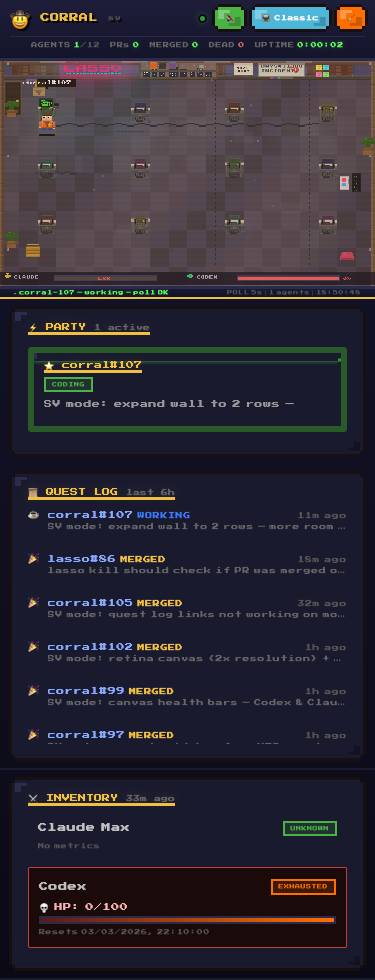
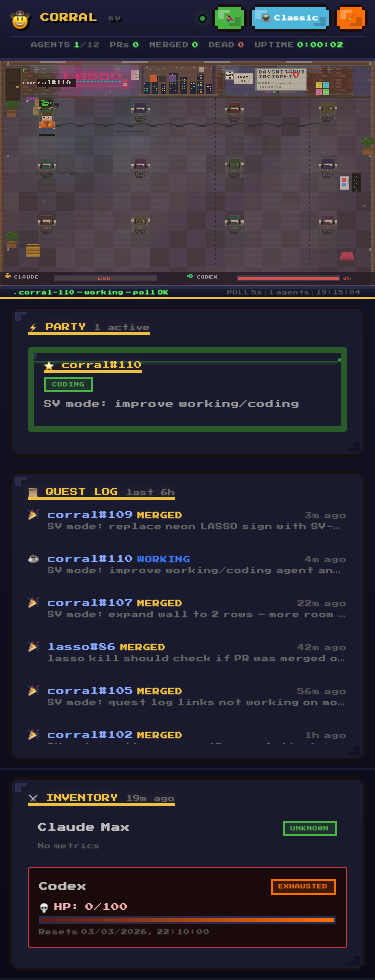
SV mode: improve working/coding agent animations
- Both hands now animate alternately (left on even frames, right on odd) to simulate two-hand typing
- Head bobs forward 1px periodically when coding (focused lean-in posture)
- Eyes glance between different monitor areas while coding
- Monitor shows scrolling code lines moving upward with varying indentation
- Blinking cursor on monitor screen
- Occasional compile flash (brief white flicker)
- RGB keyboard glow cycling slowly under hands
- Thought bubbles (... </> { }) float above coding agents with fade in/out
- Hair and headset follow head bob movement for consistency

diff --git a/sv.html b/sv.html
@@ -2224,52 +2224,57 @@ function drawCharacterSV(d, colorIdx, state, agentType) {
   R(x+6, y+8+oy, 1, 2, hX); R(x+9, y+8+oy, 1, 2, hX);
   if (isCodex) { R(x+10, y+9+oy, 2, 2, '#f0c040'); R(x+10, y+9+oy, 1, 1, '#d4a020'); }
   else { R(x+10, y+9+oy, 1, 1, '#f0c040'); R(x+9, y+10+oy, 3, 1, '#f0c040'); R(x+10, y+11+oy, 1, 1, '#f0c040'); }
-  // --- HEAD ---
-  R(x+4, y+2+oy, 8, 5, ch.skin);
-  R(x+4, y+2+oy, 8, 1, ch.skinH);
-  R(x+4, y+6+oy, 8, 1, ch.skinD);
-  R(x+3, y+3+oy, 1, 2, ch.skin); R(x+3, y+3+oy, 1, 1, ch.skinH);
-  R(x+12, y+3+oy, 1, 2, ch.skinD);
+  // --- HEAD (with lean-in bob for coding) ---
+  const hob = coding ? (Math.floor(frame / 24) % 4 === 1 ? 1 : 0) : 0;
+  const hy = oy + hob;
+  R(x+4, y+2+hy, 8, 5, ch.skin);
+  R(x+4, y+2+hy, 8, 1, ch.skinH);
+  R(x+4, y+6+hy, 8, 1, ch.skinD);
+  R(x+3, y+3+hy, 1, 2, ch.skin); R(x+3, y+3+hy, 1, 1, ch.skinH);
+  R(x+12, y+3+hy, 1, 2, ch.skinD);
   // --- EYES (2px tall) ---
   const blink = frame % 80 < 3;
   if (slumped) {
-    R(x+5, y+4+oy, 2, 1, '#222'); R(x+9, y+4+oy, 2, 1, '#222');
+    R(x+5, y+4+hy, 2, 1, '#222'); R(x+9, y+4+hy, 2, 1, '#222');
   } else if (!blink) {
-    R(x+5, y+3+oy, 2, 2, '#fff'); R(x+9, y+3+oy, 2, 2, '#fff');
-    const px = coding ? 0 : (Math.sin(frame * 0.02) > 0 ? 0 : 1);
-    R(x+5+px, y+3+oy, 1, 2, '#111'); R(x+9+px, y+3+oy, 1, 2, '#111');
-    R(x+5, y+3+oy, 1, 1, '#ddf'); R(x+9, y+3+oy, 1, 1, '#ddf');
-    if (celeb) { R(x+5, y+2+oy, 2, 1, ch.hair); R(x+9, y+2+oy, 2, 1, ch.hair); }
+    R(x+5, y+3+hy, 2, 2, '#fff'); R(x+9, y+3+hy, 2, 2, '#fff');
+    // Coding: eyes glance between monitor areas; others: slow drift
+    const px = coding ? (Math.floor(frame / 30) % 3 === 2 ? 1 : 0) : (Math.sin(frame * 0.02) > 0 ? 0 : 1);
+    R(x+5+px, y+3+hy, 1, 2, '#111'); R(x+9+px, y+3+hy, 1, 2, '#111');
+    R(x+5, y+3+hy, 1, 1, '#ddf'); R(x+9, y+3+hy, 1, 1, '#ddf');
+    if (celeb) { R(x+5, y+2+hy, 2, 1, ch.hair); R(x+9, y+2+hy, 2, 1, ch.hair); }
   }
-  if (celeb) R(x+7, y+5+oy, 2, 1, '#c06060');
-  else if (slumped) R(x+7, y+5+oy, 2, 1, '#888');
-  else if (coding) R(x+7, y+5+oy, 1, 1, ch.skinD);
+  if (celeb) R(x+7, y+5+hy, 2, 1, '#c06060');
+  else if (slumped) R(x+7, y+5+hy, 2, 1, '#888');
+  else if (coding) R(x+7, y+5+hy, 1, 1, ch.skinD);
   // --- HAIR (per hairStyle) ---
   const hs = ch.hairStyle;
-  R(x+4, y+1+oy, 8, 2, ch.hair); R(x+4, y+1+oy, 8, 1, ch.hairH);
-  R(x+3, y+2+oy, 1, 1, ch.hair); R(x+12, y+2+oy, 1, 1, ch.hair);
+  R(x+4, y+1+hy, 8, 2, ch.hair); R(x+4, y+1+hy, 8, 1, ch.hairH);
+  R(x+3, y+2+hy, 1, 1, ch.hair); R(x+12, y+2+hy, 1, 1, ch.hair);
   if (hs === 0) {
-    R(x+5, y+oy, 2, 1, ch.hair); R(x+8, y+oy, 2, 1, ch.hair);
-    R(x+6, y+oy-1, 1, 1, ch.hairH); R(x+9, y+oy-1, 1, 1, ch.hairH); R(x+11, y+oy, 1, 1, ch.hair);
+    R(x+5, y+hy, 2, 1, ch.hair); R(x+8, y+hy, 2, 1, ch.hair);
+    R(x+6, y+hy-1, 1, 1, ch.hairH); R(x+9, y+hy-1, 1, 1, ch.hairH); R(x+11, y+hy, 1, 1, ch.hair);
   } else if (hs === 1) {
-    R(x+12, y+1+oy, 2, 1, ch.hair); R(x+13, y+2+oy, 2, 2, ch.hair); R(x+13, y+2+oy, 1, 1, ch.hairH);
+    R(x+12, y+1+hy, 2, 1, ch.hair); R(x+13, y+2+hy, 2, 2, ch.hair); R(x+13, y+2+hy, 1, 1, ch.hairH);
   } else if (hs === 2) {
-    R(x+3, y+oy, 10, 2, '#cc3333'); R(x+3, y+oy, 10, 1, '#ee5555'); R(x+2, y+1+oy, 12, 1, '#aa2222');
+    R(x+3, y+hy, 10, 2, '#cc3333'); R(x+3, y+hy, 10, 1, '#ee5555'); R(x+2, y+1+hy, 12, 1, '#aa2222');
   } else if (hs === 3) {
-    R(x+3, y+oy, 10, 2, ch.hair);
-    R(x+2, y+2+oy, 2, 3, '#555'); R(x+2, y+2+oy, 2, 1, '#777');
-    R(x+12, y+2+oy, 2, 3, '#555'); R(x+12, y+2+oy, 2, 1, '#777');
-    R(x+3, y+oy, 10, 1, '#666');
+    R(x+3, y+hy, 10, 2, ch.hair);
+    R(x+2, y+2+hy, 2, 3, '#555'); R(x+2, y+2+hy, 2, 1, '#777');
+    R(x+12, y+2+hy, 2, 3, '#555'); R(x+12, y+2+hy, 2, 1, '#777');
+    R(x+3, y+hy, 10, 1, '#666');
   } else if (hs === 4) {
-    R(x+4, y+oy, 8, 1, '#4a4a8a'); R(x+3, y+1+oy, 10, 1, '#3a3a7a');
-    R(x+5, y+oy-1, 6, 1, '#5a5a9a'); R(x+7, y+oy-2, 2, 1, '#4a4a8a');
+    R(x+4, y+hy, 8, 1, '#4a4a8a'); R(x+3, y+1+hy, 10, 1, '#3a3a7a');
+    R(x+5, y+hy-1, 6, 1, '#5a5a9a'); R(x+7, y+hy-2, 2, 1, '#4a4a8a');
   } else {
-    R(x+4, y+oy, 8, 2, ch.hair); R(x+4, y+oy, 8, 1, ch.hairH);
+    R(x+4, y+hy, 8, 2, ch.hair); R(x+4, y+hy, 8, 1, ch.hairH);
   }
   // --- ARMS ---
   if (coding) {
     const ab = f % 2;
-    R(x+1, y+8+oy, 2, 4, hM); R(x+1, y+8+oy, 2, 1, hL); R(x+1, y+12+oy, 2, 1, ch.skin);
+    // Left arm + hand (bounces on even frames)
+    R(x+1, y+8+oy, 2, 4, hM); R(x+1, y+8+oy, 2, 1, hL); R(x+1, y+12+oy+(1-ab), 2, 1, ch.skin);
+    // Right arm + hand (bounces on odd frames)
     R(x+13, y+8+oy, 2, 4, hM); R(x+13, y+8+oy, 2, 1, hL); R(x+13, y+12+oy+ab, 2, 1, ch.skin);
   } else if (celeb) {
     R(x+1, y+2+oy, 2, 5, hM); R(x+1, y+2+oy, 2, 1, hL); R(x+1, y+1+oy, 2, 1, ch.skin);
@@ -2289,9 +2294,9 @@ function drawCharacterSV(d, colorIdx, state, agentType) {
   }
   // Coding headset
   if (coding && hs !== 3) {
-    R(x+3, y+2+oy, 1, 3, '#555'); R(x+3, y+2+oy, 1, 1, '#777');
-    R(x+12, y+2+oy, 1, 3, '#555'); R(x+12, y+2+oy, 1, 1, '#777');
-    R(x+4, y+oy, 8, 1, '#444');
+    R(x+3, y+2+hy, 1, 3, '#555'); R(x+3, y+2+hy, 1, 1, '#777');
+    R(x+12, y+2+hy, 1, 3, '#555'); R(x+12, y+2+hy, 1, 1, '#777');
+    R(x+4, y+hy, 8, 1, '#444');
   }
   // Sleeping ZZZ
   if (sleeping) {
@@ -2300,6 +2305,54 @@ function drawCharacterSV(d, colorIdx, state, agentType) {
     if (zf < 30) ctx.fillText('z', x+14, y+oy+2);
     else if (zf < 60) ctx.fillText('zZ', x+13, y+oy);
     else ctx.fillText('zZz', x+12, y+oy-2);
+  }
+  ctx.restore();
+}
+
+function drawKeyboardGlowSV(d, idx) {
+  ctx.save(); ctx.scale(SCALE, SCALE);
+  const x = d.x * TILE, y = d.y * TILE + 8;
+  const isStanding = idx % 3 === 0;
+  const ky = isStanding ? y - 1 : y + 1;
+  // RGB glow cycling slowly under keyboard area
+  const rgbPhase = frame * 0.02;
+  for (let i = 0; i < 3; i++) {
+    const hue = (rgbPhase + i * 2.1) % (Math.PI * 2);
+    const r = Math.floor(128 + 60 * Math.sin(hue));
+    const g = Math.floor(128 + 60 * Math.sin(hue + 2.09));
+    const b = Math.floor(128 + 60 * Math.sin(hue + 4.19));
+    R(x + 3 + i * 3, ky + 3, 2, 1, 'rgba(' + r + ',' + g + ',' + b + ',0.25)');
+  }
+  ctx.restore();
+}
+
+function drawThoughtBubbleSV(d, deskIdx) {
+  ctx.save(); ctx.scale(SCALE, SCALE);
+  const x = d.x * TILE + 4, y = (d.y + 1) * TILE - 12;
+  const symbols = ['...', '</>', '{ }'];
+  const cycleLen = 200; // frames per symbol
+  const totalCycle = cycleLen * symbols.length;
+  const t = (frame + deskIdx * 67) % totalCycle;
+  const symIdx = Math.floor(t / cycleLen);
+  const symT = t % cycleLen;
+  // Fade in first 30 frames, hold, fade out last 30 frames
+  let alpha;
+  if (symT < 30) alpha = symT / 30;
+  else if (symT > cycleLen - 30) alpha = (cycleLen - symT) / 30;
+  else alpha = 1;
+  if (alpha > 0.05) {
+    // Small floating dots leading to bubble
+    ctx.fillStyle = 'rgba(170,200,255,' + (alpha * 0.4).toFixed(2) + ')';
+    R(x + 10, y + 6, 1, 1, ctx.fillStyle);
+    R(x + 11, y + 4, 1, 1, ctx.fillStyle);
+    // Bubble background
+    const sym = symbols[symIdx];
+    const bw = sym.length * 4 + 4;
+    R(x + 8, y - 1, bw, 7, 'rgba(20,20,40,' + (alpha * 0.7).toFixed(2) + ')');
+    // Text
+    ctx.fillStyle = 'rgba(170,200,255,' + alpha.toFixed(2) + ')';
+    ctx.font = '3px "Press Start 2P"';
+    ctx.fillText(sym, x + 10, y + 4);
   }
   ctx.restore();
 }
@@ -2774,13 +2827,20 @@ function drawMonitorSV(d, state, monitorText, idx, agentType) {
 
   // Screen content on primary monitor
   if (state === 'coding') {
-    const colors = ['#4ae04a', '#2a8a2a', '#6af06a', '#3aaa3a'];
+    const colors = ['#4ae04a', '#2a8a2a', '#6af06a', '#3aaa3a', '#2f9a3d'];
+    const indents = [0, 1, 2, 2, 1, 0, 1, 3, 0, 2];
+    const lengths = [6, 4, 3, 5, 7, 2, 4, 3, 5, 6];
+    const scrollOff = Math.floor(frame / 14) % 10;
     for (let line = 0; line < 5; line++) {
-      const indent = line === 2 ? 2 : (line === 4 ? 1 : 0);
-      const len = 2 + (line * 3 + frame) % 5;
-      R(x + 2 + indent, y + 1 + line, Math.min(len, 8 - indent), 1, colors[line % colors.length]);
+      const li = (line + scrollOff) % 10;
+      const indent = indents[li];
+      const len = lengths[li];
+      R(x + 2 + indent, y + 1 + line, Math.min(len, 8 - indent), 1, colors[li % colors.length]);
     }
-    if (frame % 10 < 5) R(x + 9, y + 5, 1, 1, '#4ae04a');
+    // Blinking cursor
+    if (frame % 16 < 8) R(x + 9, y + 5, 1, 1, '#4ae04a');
+    // Occasional compile flash — brief white flicker
+    if (frame % 300 < 2) R(x + 1, y + 1, 10, 6, 'rgba(200,255,200,0.2)');
   } else if (state === 'ci_failed') {
     const bright = Math.sin(frame * 0.1) > 0;
     const c = bright ? '#ff3b3b' : '#aa2222';
@@ -3277,6 +3337,8 @@ function render() {
       R(hx - 1, hy, 3, 1, '#666'); // top bar
       R(hx - 2, hy, 1, 2, '#444'); R(hx + 2, hy, 1, 2, '#444'); // headphone cups
       ctx.restore();
+      drawKeyboardGlowSV(d, a.desk);
+      drawThoughtBubbleSV(d, a.desk);
     }
     if (a.coffees > 0) drawCoffeeCups(d, a.coffees);
     if (a.failing) drawFire(d);
